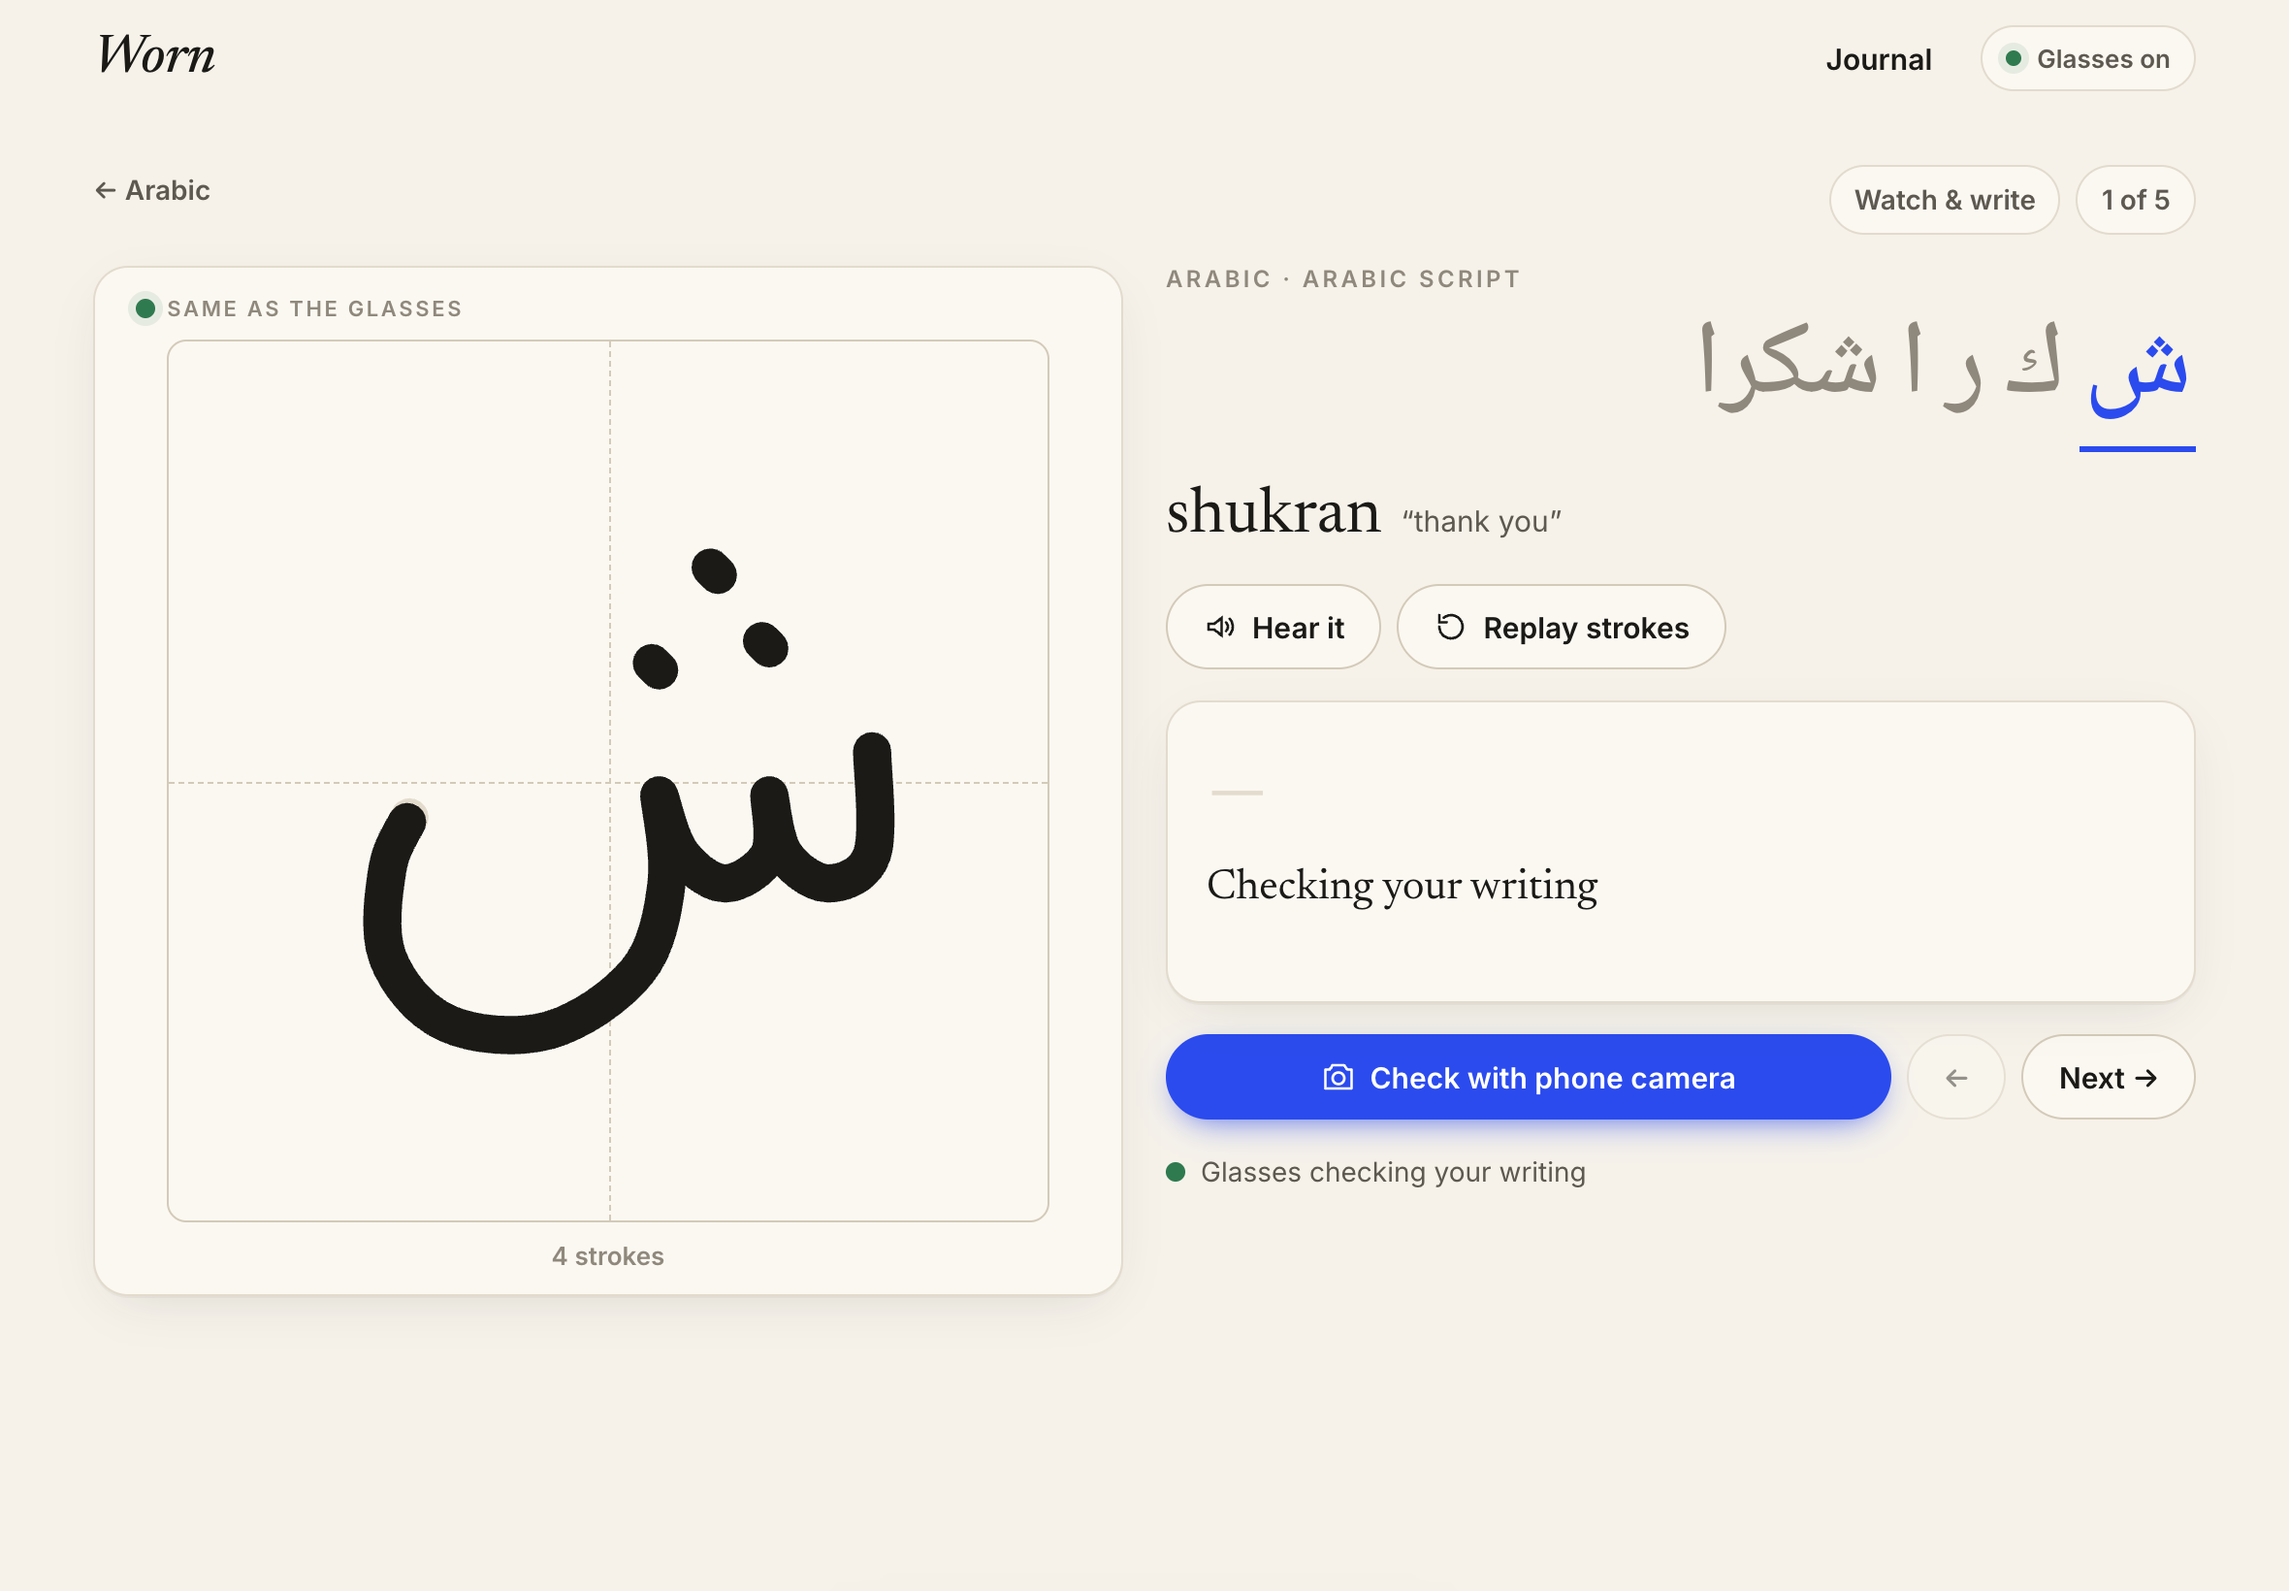
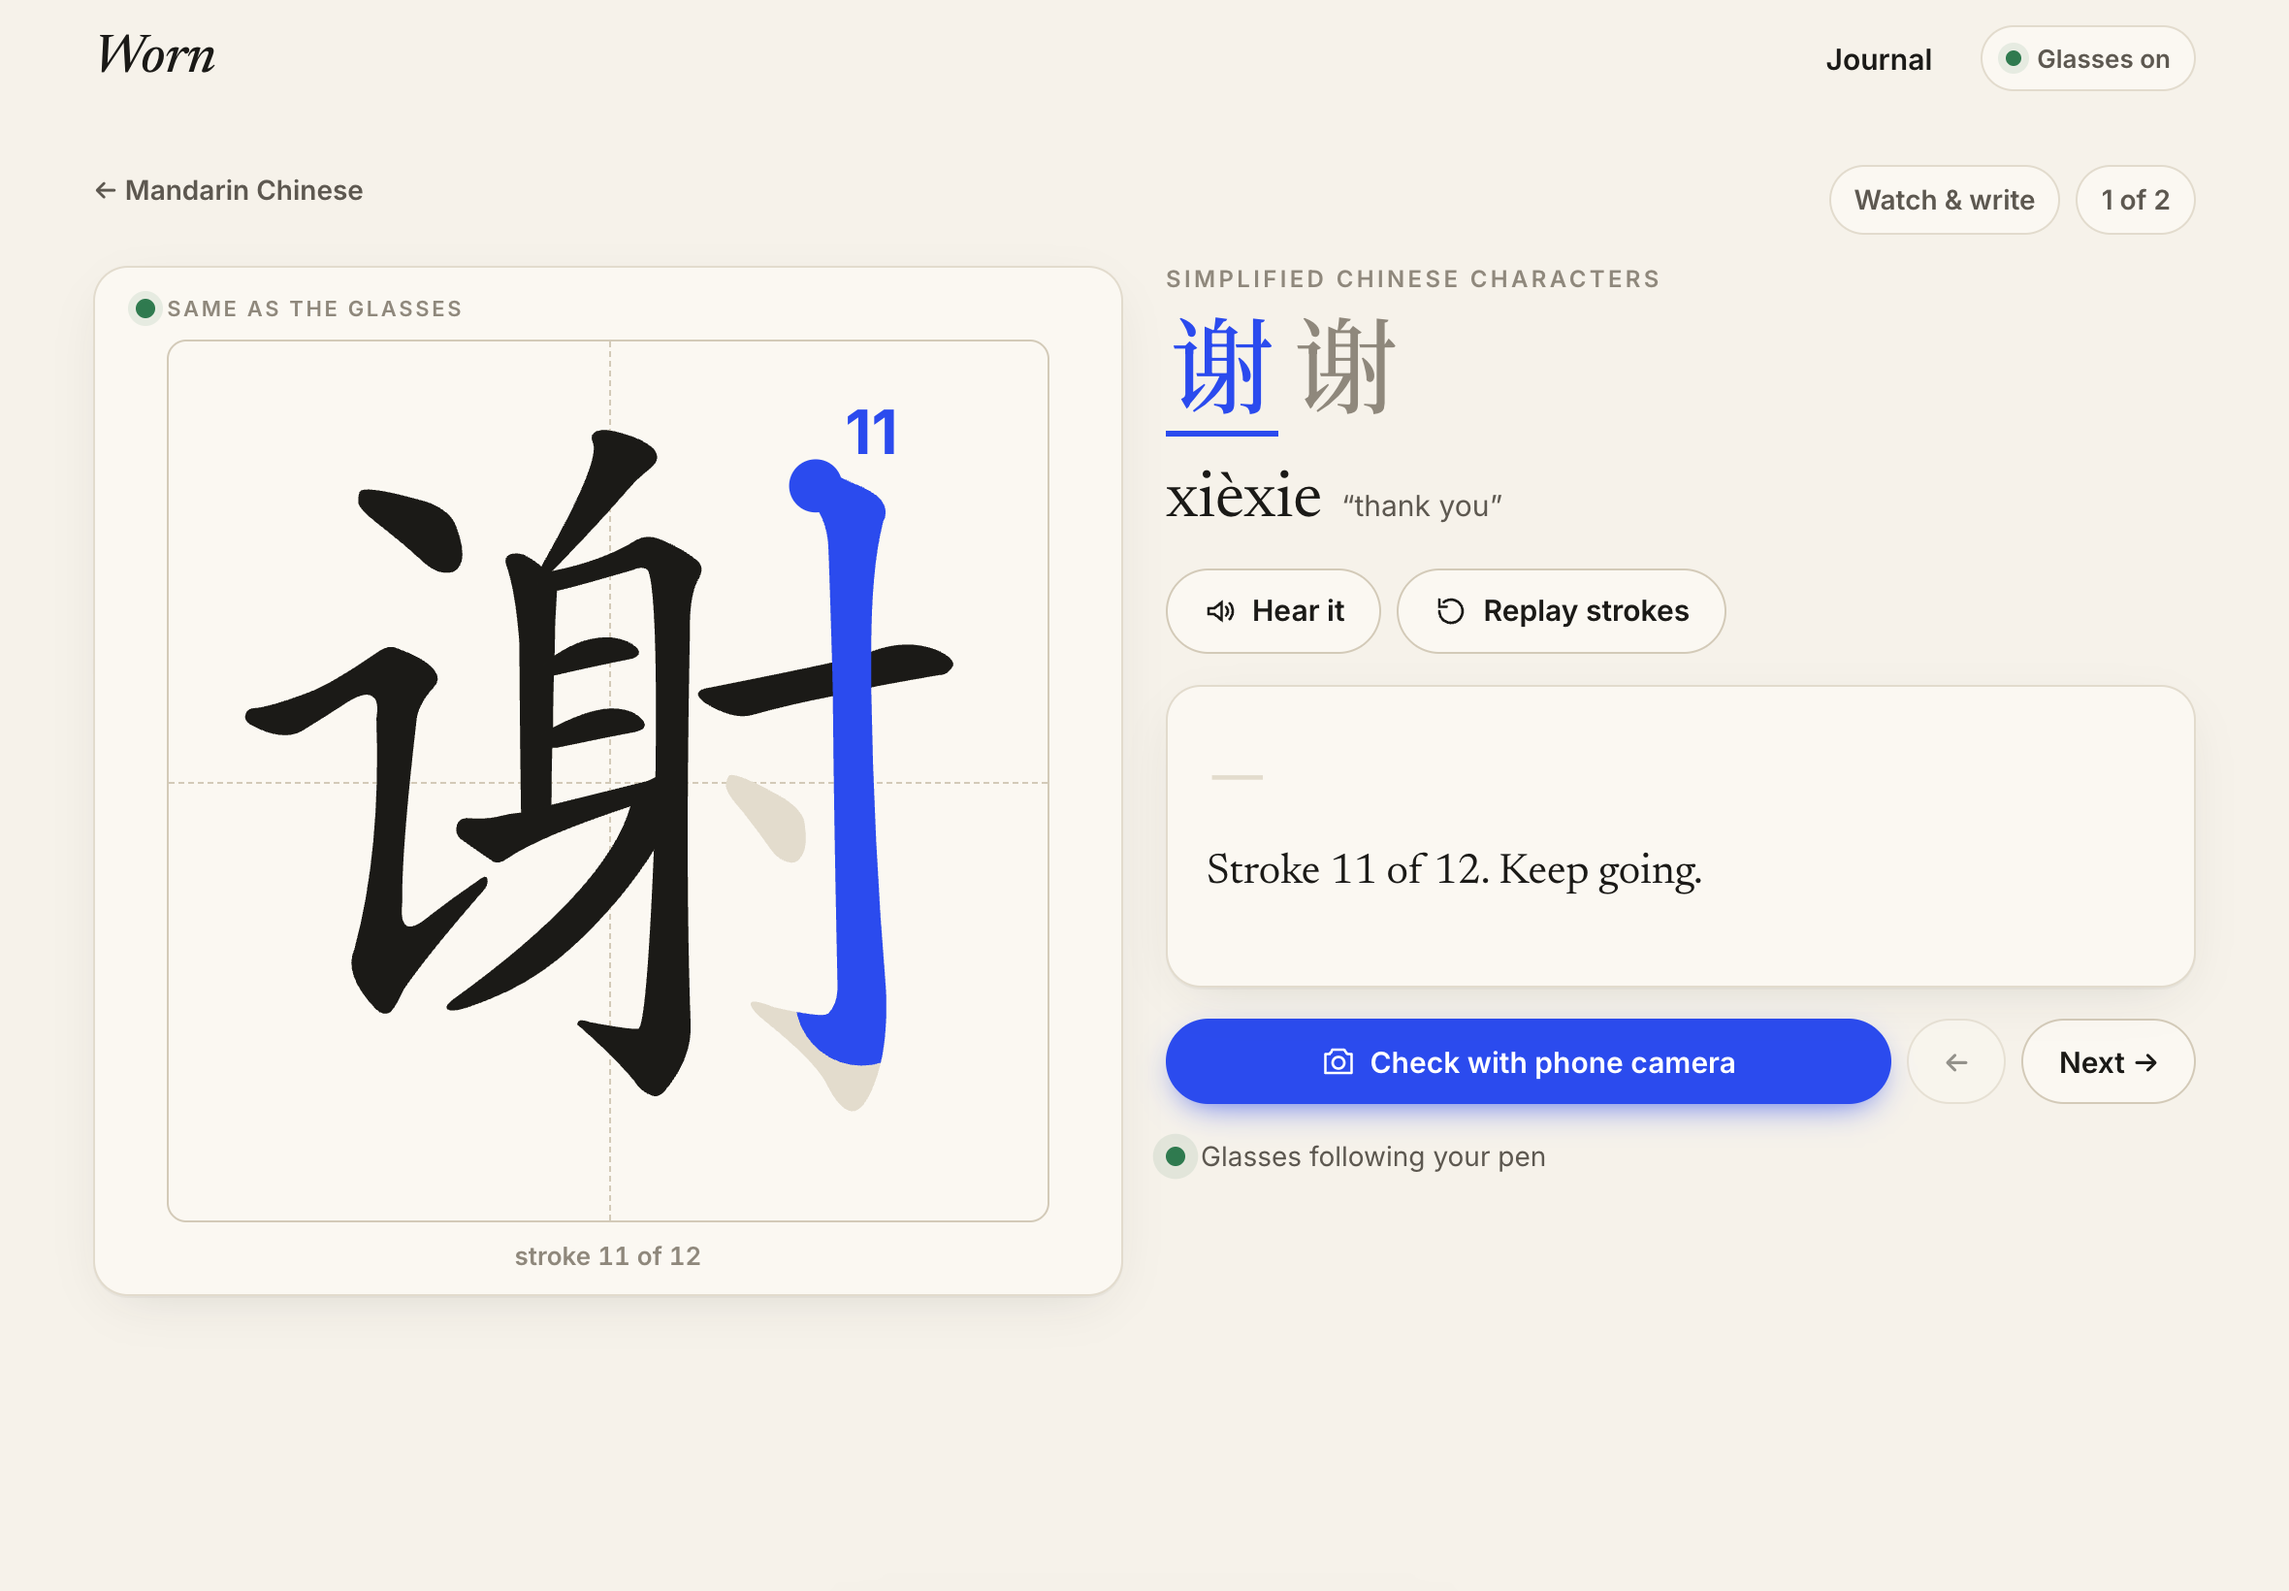
web: phone practice keeps the result in view, shorter practice header
Claude-Session: https://claude.ai/code/session_01VhMLrvBXcgXH42XvKtWhmh

diff --git a/web/app.html b/web/app.html
@@ -190,6 +190,8 @@
     .lhead { grid-template-columns: 1fr; gap: 4px; }
     .top .gl span.t { display: none; }
     .result .sc { font-size: 52px; }
+    .stage { width: 78vw; max-width: 78vw; }
+    .practice { gap: 16px; }
   }
 </style>
 </head>
@@ -528,7 +530,7 @@
       if (daily) $("pDaily").textContent = "Daily 5 · " + (daily.i + 1) + " of " + daily.items.length;
       $("pMode").textContent = s.mode === "dictation" ? "Dictation" : s.mode === "compose" ? "Your message" : "Watch & write";
       $("pCount").textContent = (s.char_index + 1) + " of " + s.total_chars;
-      $("pLang").textContent = (s.lang_name || langName(s.lang)) + " · " + (s.script || scriptName(s.lang));
+      $("pLang").textContent = s.script || scriptName(s.lang) || s.lang_name || langName(s.lang);
       var chars = (s.item && s.item.chars) || [s.char], w = $("pWord");
       w.setAttribute("dir", s.rtl ? "rtl" : "ltr");
       w.innerHTML = WornInk.segments((s.item && s.item.text) || s.text, chars).map(function (g) {
@@ -610,6 +612,10 @@
     var fx = WornSfx.forResult(r, { silent: !!quiet });
     $("resRx").innerHTML = (r.emoji ? "<span>" + esc(r.emoji) + "</span>" : "") + (fx.line ? "<span>“" + esc(fx.line) + "”</span>" : "");
     if (s.show_char === false) $("stage").classList.add("reveal");
+    if (!quiet && innerWidth < 900) {
+      var rb = el.getBoundingClientRect();
+      if (rb.bottom > innerHeight || rb.top < 60) el.scrollIntoView({ behavior: "smooth", block: "center" });
+    }
     if (r.correct && !quiet) {
       var b = $("stage").getBoundingClientRect();
       WornConfetti.burst({ x: (b.left + b.width / 2) / innerWidth, y: Math.max(.15, (b.top + b.height * .4) / innerHeight), count: 130 });
